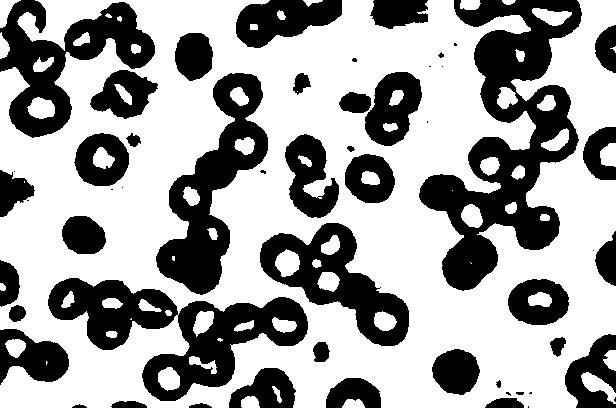
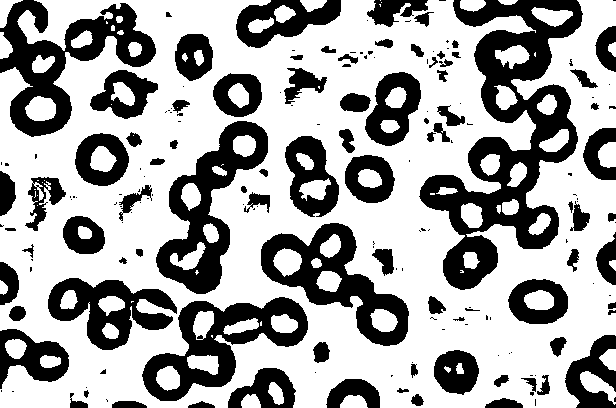
Refactoring

diff --git a/binarization_demo/binarization_demo_source/main.c b/binarization_demo/binarization_demo_source/main.c
@@ -18,7 +18,12 @@
 	printf(x);       \
 	printf("\r\n")
 
-int write_data(const char *file_path, uint_fast16_t width, uint_fast16_t height, unsigned char *image, const char *title)
+int write_data(
+	const char *file_path, 
+	const uint_fast16_t width, 
+	const uint_fast16_t height, 
+	unsigned char *image, 
+	const char *title)
 {
 	int_fast8_t err_code = 0;
 	FILE *file = NULL;
@@ -73,7 +78,7 @@ int write_data(const char *file_path, uint_fast16_t width, uint_fast16_t height,
 
 	png_write_info(png_ptr, info_ptr);
 
-	row = (png_bytep)malloc(width * sizeof(png_byte));
+	row = (png_bytep) calloc(width, sizeof(png_byte));
 
 	register uint_fast16_t x, y;
 	for (y = 0; y < height; y++)
@@ -94,7 +99,7 @@ out:
 	if (info_ptr != NULL)
 		png_free_data(png_ptr, info_ptr, PNG_FREE_ALL, -1);
 	if (png_ptr != NULL)
-		png_destroy_write_struct(&png_ptr, (png_infopp)NULL);
+		png_destroy_write_struct(&png_ptr, (png_infopp) NULL);
 	if (row != NULL)
 		free(row);
 
@@ -165,8 +170,8 @@ int get_data(const char *name, uint_fast16_t *width, uint_fast16_t *height, unsi
 	png_read_update_info(png, info);
 
 	/* Allocate image */
-	*width = (uint_fast16_t)png_get_image_width(png, info);
-	*height = (uint_fast16_t)png_get_image_height(png, info);
+	*width = (uint_fast16_t) png_get_image_width(png, info);
+	*height = (uint_fast16_t) png_get_image_height(png, info);
 
 	*raw = calloc(*width * *height, sizeof(png_uint_16));
 
@@ -178,7 +183,7 @@ int get_data(const char *name, uint_fast16_t *width, uint_fast16_t *height, unsi
 
 	for (uint_fast8_t pass = 0; pass < number_passes; pass++)
 	{
-		for (uint_fast16_t y = 0; y < *height; y++)
+		for (register uint_fast16_t y = 0; y < *height; y++)
 		{
 			row_pointer = *raw + y * *width;
 			png_read_rows(png, &row_pointer, NULL, 1);
@@ -194,9 +199,9 @@ out:
 		png_read_end(png, NULL);
 
 		if (info)
-			png_destroy_read_struct((png_structpp)&png, &info, (png_infopp)NULL);
+			png_destroy_read_struct((png_structpp) &png, &info, (png_infopp) NULL);
 		else
-			png_destroy_read_struct((png_structpp)&png, (png_infopp)NULL, (png_infopp)NULL);
+			png_destroy_read_struct((png_structpp) &png, (png_infopp) NULL, (png_infopp) NULL);
 	}
 	
 	if (file)
@@ -224,7 +229,7 @@ int check_if_png(const char *file_path)
 		goto out;
 	}
 
-	if (!png_sig_cmp(buf, (png_size_t)0, PNG_BYTES_TO_CHECK))
+	if (!png_sig_cmp(buf, (png_size_t) 0, PNG_BYTES_TO_CHECK))
 		err_code = 1;
 
 out:
@@ -238,7 +243,7 @@ out:
 const char *open_and_choose_file(const char *dir_path, char *filename)
 {
 	println("Choose one of of exiting file in directory:");
-	scan_dir((char *)dir_path);
+	scan_dir((char *) dir_path);
 
 	printf("\r\n Select a file: ");
 
@@ -264,7 +269,7 @@ int main(void)
 	unsigned char *raw = NULL;
 	unsigned char *out = NULL;
 
-	char *filename = (char *)malloc(0x10);
+	char *filename = calloc(MAX_NAME_LENGTH, sizeof(char));
 	const char *file_source = open_and_choose_file(SOURCE_IMAGES_PATH, filename);
 	const char *file_path_dst = concat(OUTPUT_IMAGES_PATH, filename);
 
@@ -286,7 +291,7 @@ int main(void)
 		goto out;
 	}
 
-	out = (unsigned char *)calloc(width * height, sizeof(unsigned char *));
+	out = calloc(width * height, sizeof(unsigned char *));
 
 	threshold(raw, out, width, height);
 

diff --git a/shared/binarization/binarization.c b/shared/binarization/binarization.c
@@ -13,7 +13,7 @@ void threshold(
 	const uint_fast8_t  log_w_ext = 1;
 	const uint_fast8_t  std_dev_max = 0xF0;
 	#endif
-	const uint_fast16_t width_w = width >> 3;
+	const uint_fast16_t width_w = width >> 4;
 	const uint_fast16_t width_w_half = width_w >> 1;
 	float k = 0;
 
@@ -22,7 +22,7 @@ void threshold(
 	uint_fast8_t  min_image = 0;
 	uint_fast16_t index = 0;
 	uint_fast16_t count_w = 0;
-	uint_fast16_t count_black = 0;
+	uint_fast16_t count_white = 0;
 	#if USE_STD_DEV
 	uint_fast16_t count_w_ext = 0;
 	#endif
@@ -55,7 +55,7 @@ void threshold(
 		goto out;
 
 	/* The calculation of the integral sum and min of the image */
-	count_black = 0;
+	count_white = 0;
 	min_image = src[0];
 
 	for (i = 0; i < width; i++)
@@ -73,12 +73,12 @@ void threshold(
 			if (index != 0 && src[index] < min_image)
 				min_image = src[index];
 
-			if (src[index] <= (unsigned char)BLACK_BRIGHT)
-				count_black++;
+			if (src[index] <= (unsigned char) BLACK_BRIGHT)
+				count_white++;
 		}
 	}
 
-	k = (float) 100 * count_black / (width * height);
+	k = (float) 100 * count_white / (width * height);
 
 	/* Loop for each pixel */
 	for (i = 0; i < width; i++)

diff --git a/shared/binarization/binarization.h b/shared/binarization/binarization.h
@@ -6,7 +6,7 @@
 #include <math.h>
 
 #define USE_STD_DEV 0
-#define BLACK_BRIGHT 0x10
+#define BLACK_BRIGHT 0x03
 
 #ifdef __cplusplus
 extern "C" {
